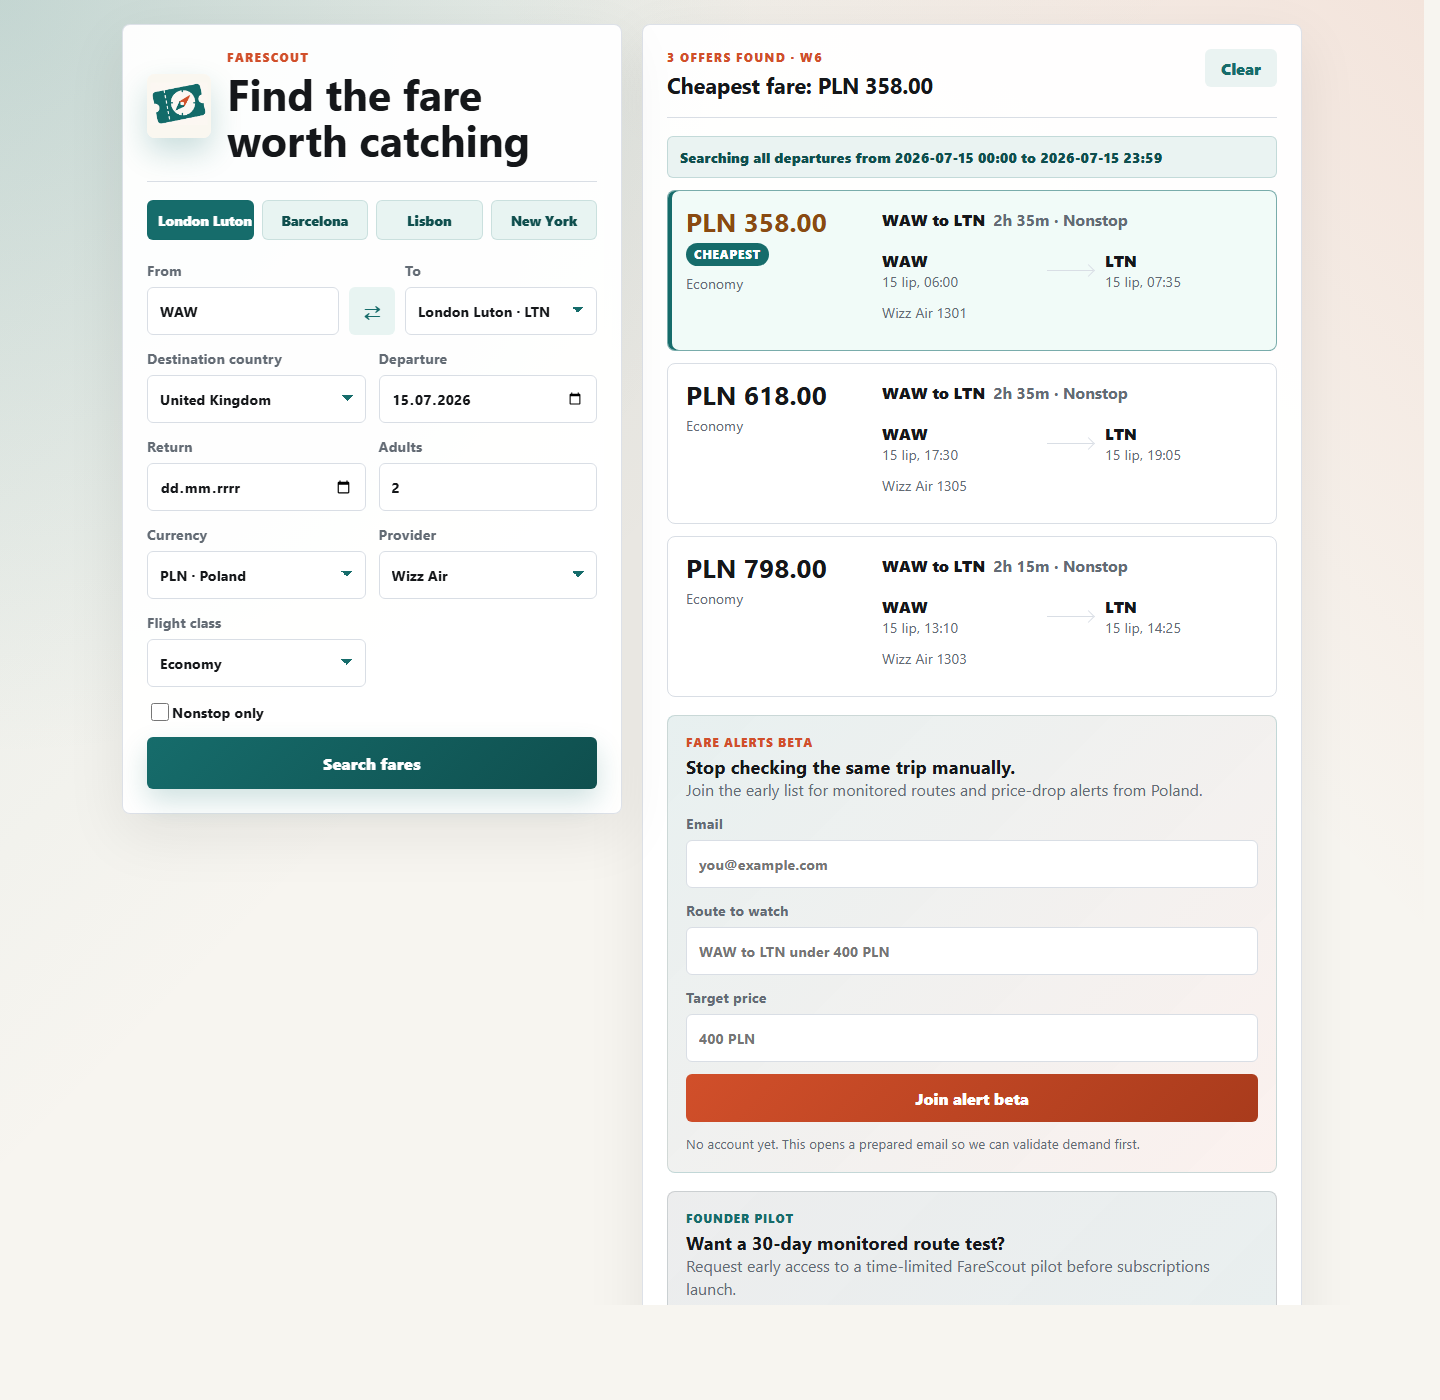
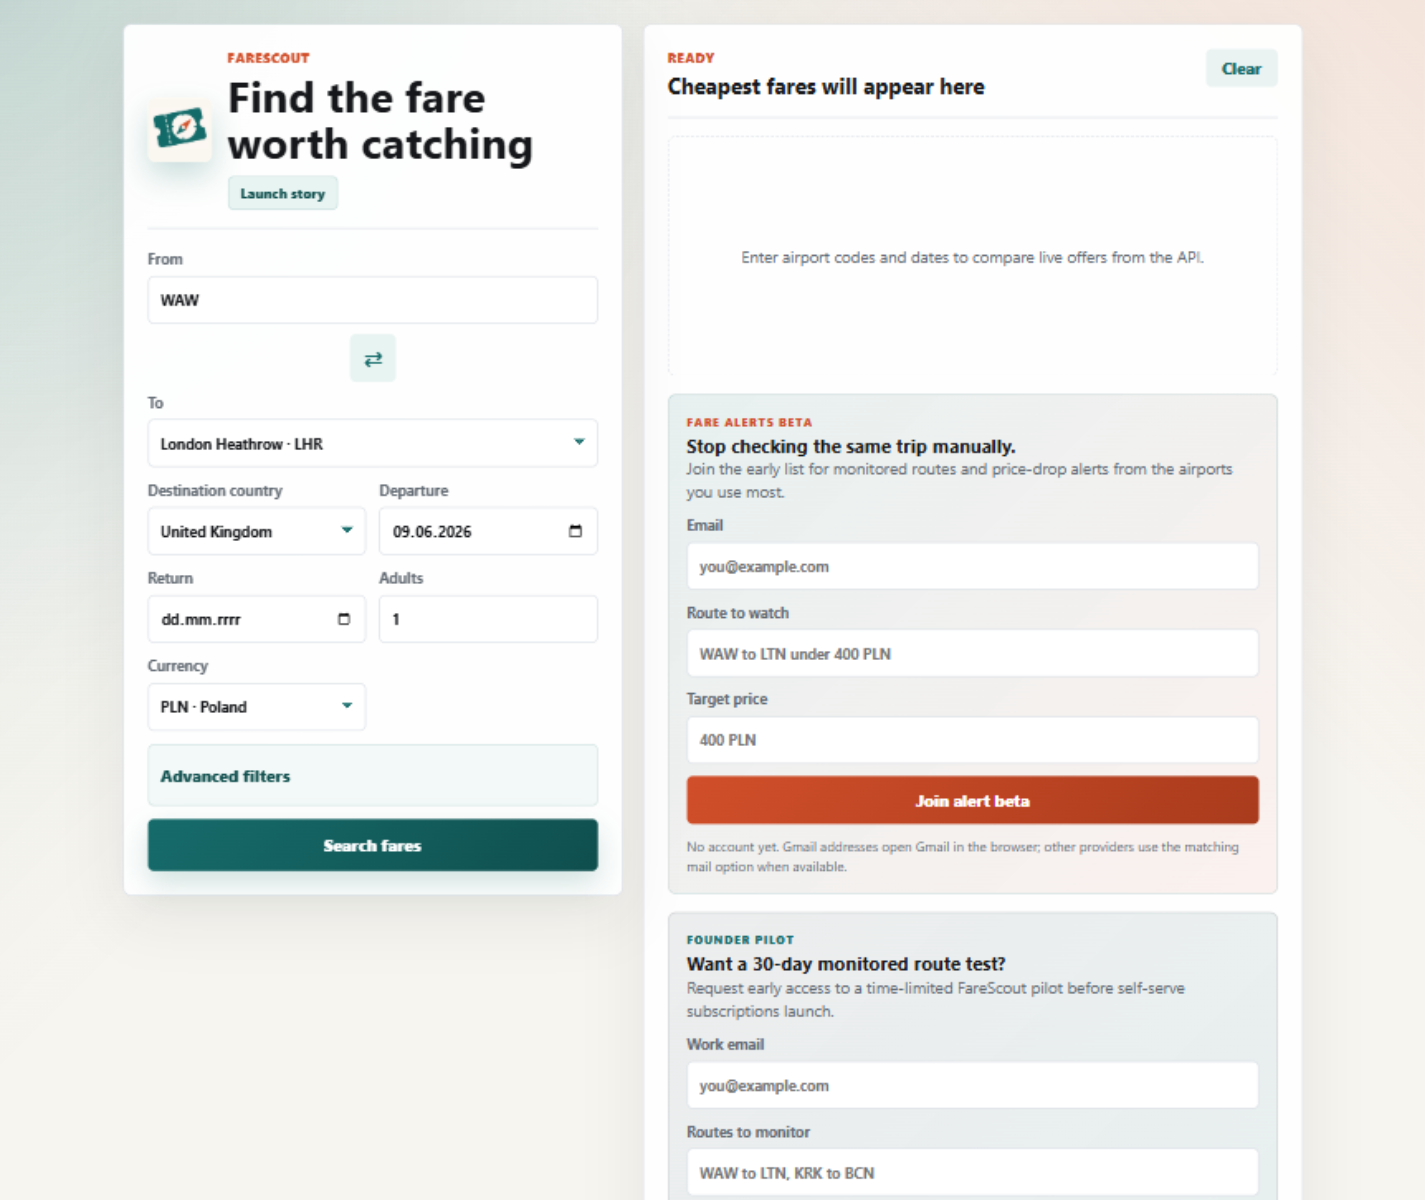
Refresh docs for simplified search UI

diff --git a/README.md b/README.md
@@ -29,6 +29,7 @@ I built it as a portfolio-ready product slice: mobile-first UI, lightweight Node
 - Currency selection through Ignav market codes such as `PL`, `GB`, and `US`.
 - Airline/provider filtering, including Wizz Air, LOT, Ryanair, British Airways, Lufthansa, KLM, Air France, TAP, Iberia, Southwest, JetBlue, Alaska, Spirit, Frontier, and major US carriers.
 - Flight class selection: economy, premium economy, business, and first.
+- Advanced filters keep provider, cabin class, and nonstop controls available without crowding the first screen.
 - Clear cheapest-fare highlight without hiding other returned prices.
 - Beta waitlist form for future monitored price alerts.
 - Founder pilot inquiry form for early commercial validation without public billing logic.

diff --git a/DEPLOYMENT.md b/DEPLOYMENT.md
@@ -100,6 +100,16 @@ Then manually test:
 - `WAW -> LTN`, Wizz Air, PLN
 - beta waitlist email handoff
 
+## Updating The Live Demo
+
+This Render service was created from a public repository URL. When a new commit is pushed, use **Manual Deploy** -> **Deploy latest commit** in the Render service dashboard if the live app does not update automatically.
+
+After each deploy, confirm:
+
+- the service shows the latest commit as `live`
+- `/api/health` returns `configured: true`
+- the homepage reflects the intended UI change
+
 ## GitHub Repository Settings
 
 Suggested repository description:
